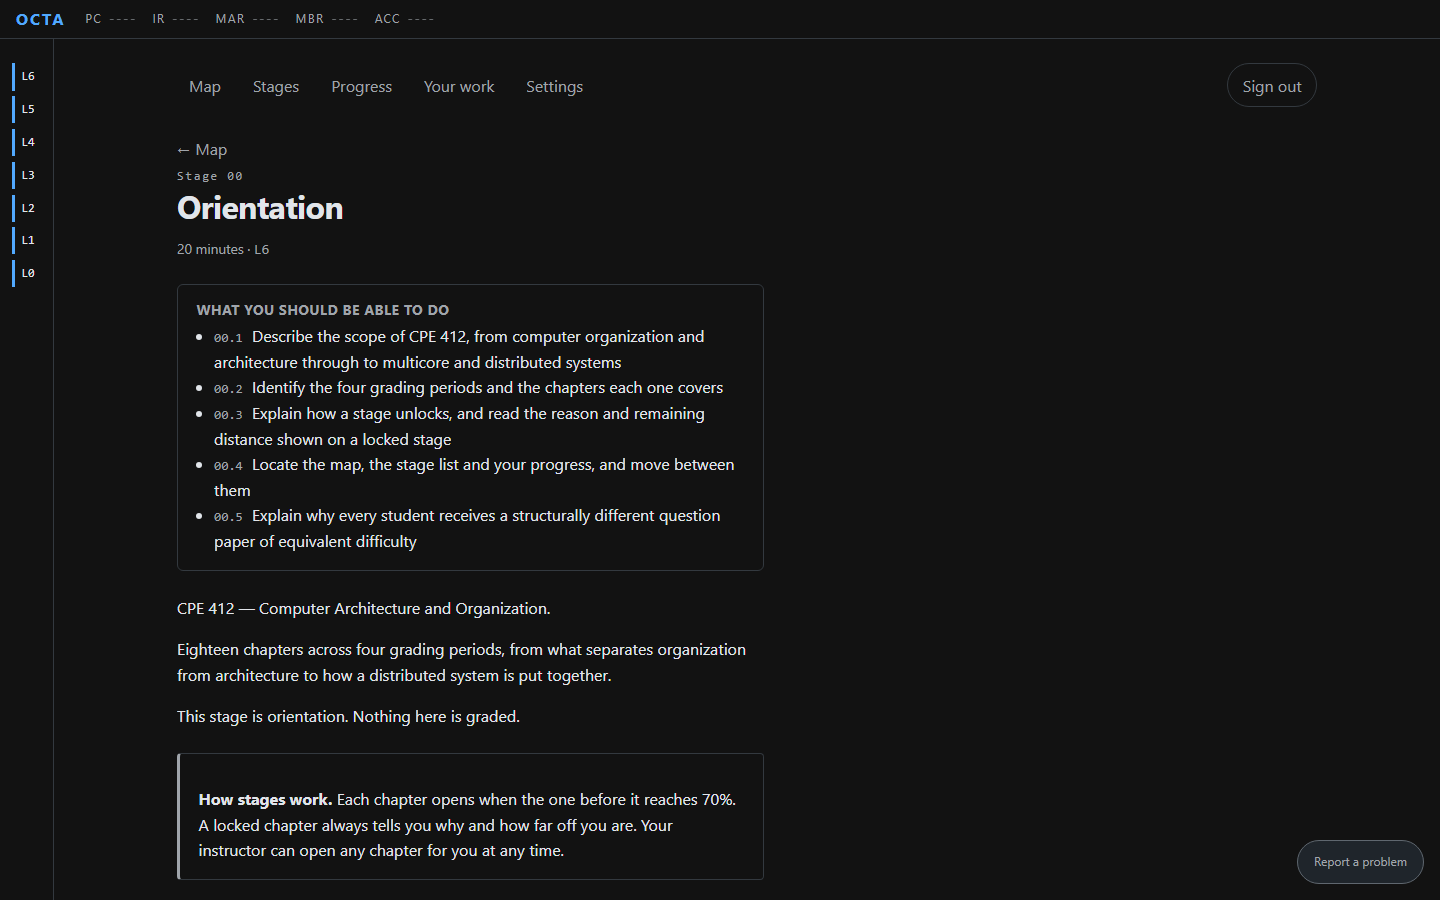
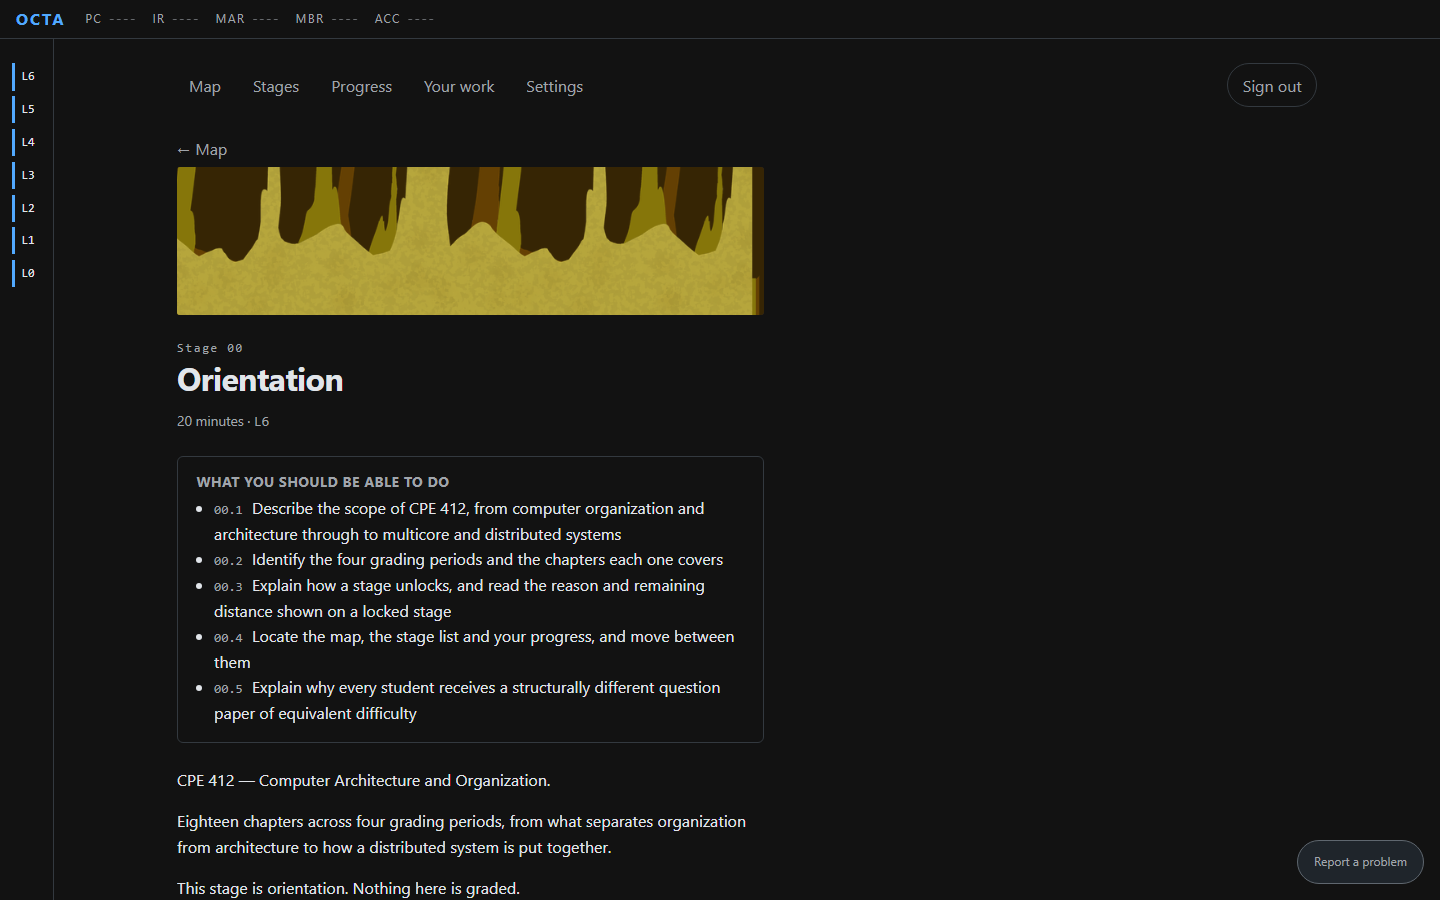
feat(biomes): cave sourced from OpenGameArt, because itch could not prove a licence
All seven biomes now render. This was the one 2 could not source.

Its instruction was "Find a different pack. Not Admurin's" -- that pack has the
same art on DeviantArt under CC 3.0 while itch states different terms, and the
author declined to reconcile them when asked directly.

THE OBVIOUS REPLACEMENT FAILED IDENTICALLY. ansimuz's Warped Caves is a good
pack by an author already vendored here, but its page carries NO LICENCE
STATEMENT FROM THE AUTHOR AT ALL. The CC-BY-3.0 that turns up in a search sits
in a USER COMMENT, by someone who is not the author, in a seven-year-old thread.
Same shape as the pack 2 rejected, so it was rejected too -- and finding that
took reading the comment thread rather than trusting the search result.

OPENGAMEART RECORDS LICENCE AS STRUCTURED METADATA ON THE WORK. That is the
difference that matters: it can be read, cited and re-verified later without
interpreting a conversation. Seamless Parallax Cave Background by
JonathanPalmerGD, from an original by PWL, is CC0 CONFIRMED TWICE -- the entry's
License(s) field, and the pack's own bundled readme.

Prefer OpenGameArt for anything licence-critical. itch.io is better at finding
art and worse at proving you may use it.

A CC-BY-SA 4.0 candidate with arguably better art was rejected on LICENCE rather
than looks: ShareAlike adds a copyleft obligation chain, CC0 adds none, and for
a thesis deliverable the safer licence wins a close call.
[…]

Changed region(s): [[0.125, 0.1867, 0.5312, 0.8089], [0.125, 0.84, 0.5312, 0.9956]]

diff --git a/apps/web/src/biomes/packs/cave.ts b/apps/web/src/biomes/packs/cave.ts
@@ -1,43 +1,70 @@
 import type { BiomeManifest } from "../registry";
 
 /**
- * Cave — underground, layered rock.
+ * Cave — vendored 2 September 2026, and **NOT from itch.io**.
  *
- * **NO PACK SELECTED. One candidate was checked and REJECTED.**
+ * This is the biome `BIOME-AND-LOADING-SPEC.md` §2 could not source. Its
+ * instruction was explicit: *"Find a different pack. Not Admurin's"*, because
+ * Admurin's cave pack has the same art on DeviantArt under CC 3.0 while itch
+ * states different terms, and the author declined to reconcile them when asked
+ * directly.
  *
- * **Do not use Admurin's "Parallax Backgrounds: Caves"**
- * (https://admurin.itch.io/parallax-backgrounds-caves), which is the pack most
- * searches surface first.
+ * **The obvious replacement failed the same test.** ansimuz's *Warped Caves* is
+ * a good pack by an author whose other work is already vendored here — but its
+ * page carries **no licence statement from the author at all**. The CC-BY-3.0
+ * that turns up when you search is in a **user comment**, by someone who is not
+ * the author, in a seven-year-old thread. That is precisely the shape §2
+ * rejected the first time, and it was rejected again.
  *
- * Its comment thread, read directly on 1 September 2026: a user pointed at the
- * **same artwork on DeviantArt**
- * (https://www.deviantart.com/admurin/art/Parallax-Backgrounds-Caves-943909344)
- * *"mentioned as licensed under CC 3.0"*, asked which licence actually governs,
- * and asked whether they could keep using it. The author replied only:
- * *"the license is indicated in the respective section. You don't have to
- * credit me unless you want to. Only thing that cannot be done is sell the
- * asset."*
+ * **Sourced from OpenGameArt instead, and that is the point.** OGA records the
+ * licence as *structured metadata on the work*, not as prose in a description
+ * or a claim in a comment thread — so it can be read, cited, and re-verified by
+ * anyone later. Two independent confirmations here:
  *
- * That restates the itch terms without addressing the CC 3.0 upload of the same
- * work. **Asked directly, never reconciled.** Two sources, two licences, and an
- * author who declined to resolve it is not a licence this project can rely on —
- * `GAME-DESIGN.md` §9's rigour before vendoring anything applies, and
- * `BIOME-AND-LOADING-SPEC.md` §2 keeps this row as the worked example of why a
- * tag listing is not a licence.
+ *   1. The OGA entry's `License(s)` field: **CC0**.
+ *   2. The pack's own bundled `License and Readme.txt`: *"License: CC0 - Use it
+ *      however you want."*
  *
- * TO COMPLETE: find a DIFFERENT cave pack. Browse
- * https://itch.io/game-assets/new-and-popular/free/tag-parallax and search
- * "cave", then open the candidate's own page and read its actual terms — the
- * same way arctic, jungle and ocean were checked. Do not accept a collection's
- * word for it.
+ * *Seamless Parallax Cave Background* by **JonathanPalmerGD**, itself a
+ * parallaxed derivative of *Seamless cave background* by **PWL** — the readme
+ * names that provenance and it is preserved in `public/biomes/cave/LICENSE.txt`.
  *
- * Until then this renders nothing, which is correct: better an absent biome
- * than one shipped on an unresolved licence.
+ * **Downscaled 800px → 400px**, which CC0 expressly permits ("use it however
+ * you want"). The band draws at ~148px, so 800 was five times oversized; the
+ * front layer alone was 325 KB. **377 KB → 156 KB, 59% smaller**, with 400px
+ * still leaving headroom for a 2× display.
+ *
+ * `smooth: true` because this is PAINTED art. Strip packs pixelate by default,
+ * which is right for the pixel-art packs and wrong here.
  */
 const manifest: BiomeManifest = {
   name: "cave",
-  layers: [],
-  credit: null,
+  kind: "strip",
+  smooth: true,
+  layers: [
+    /*
+     * Back to front, and the alpha confirms the intended stack rather than
+     * assuming it: back is 100% opaque (the rock wall), then three overlays at
+     * 40% / 44% / 59% coverage. That check is not optional — arctic's pack had
+     * a second fully-opaque layer hiding at the end of the sequence, which
+     * silently covered the whole scene until the alpha was measured.
+     */
+    { src: "/biomes/cave/back.png", depth: 0, scale: 2.2, align: "bottom" },
+    { src: "/biomes/cave/far.png", depth: 0.4, scale: 2.2, align: "bottom" },
+    { src: "/biomes/cave/mid.png", depth: 0.7, scale: 2.2, align: "bottom" },
+    { src: "/biomes/cave/front.png", depth: 1, scale: 2.2, align: "bottom" },
+  ],
+  credit: {
+    pack: "Seamless Parallax Cave Background",
+    author: "JonathanPalmerGD, from an original by PWL",
+    url: "https://opengameart.org/content/seamless-parallax-cave-background",
+    license:
+      'CC0 — confirmed twice: the OpenGameArt entry\'s License(s) field, and the pack\'s own ' +
+      'bundled readme, verbatim "License: CC0 - Use it however you want."',
+    // None. CC0, and the readme's "credit me if you like" is explicitly
+    // optional. CREDITS.md credits both authors regardless, per its own rule.
+    obligations: [],
+  },
 };
 
 export default manifest;

diff --git a/design/specs/biomes.spec.ts b/design/specs/biomes.spec.ts
@@ -36,7 +36,7 @@ const JWT_SECRET =
   process.env.SUPABASE_JWT_SECRET ?? "test-secret-at-least-32-characters-long-000000";
 
 /** Vendored art. All three compose Kenney Background Elements (CC0). */
-const ART = ["neutral", "desert", "jungle", "arctic", "ocean"] as const;
+const ART = ["neutral", "desert", "jungle", "arctic", "ocean", "cave"] as const;
 /** Allowed to draw from tokens — the one named exception. */
 const PROCEDURAL = ["volcanic"] as const;
 /**
@@ -46,7 +46,17 @@ const PROCEDURAL = ["volcanic"] as const;
  * session (itch.io), and `cave` has no approved source at all — the pack §2
  * named is marked do-not-use over an unresolved licence conflict.
  */
-const NOT_VENDORED = ["cave"] as const;
+/**
+ * Nothing is un-vendored any more — all six art biomes are in, and volcanic is
+ * procedural by design.
+ *
+ * The list is KEPT, empty, rather than deleted along with the test below. §2's
+ * rule that an un-sourced biome must render NOTHING rather than a gradient
+ * stand-in is the reason five of them were visibly outstanding instead of
+ * looking finished, and the next biome added should inherit that guarantee
+ * rather than rediscover it.
+ */
+const NOT_VENDORED: readonly string[] = [];
 
 function studentToken(): string {
   const b64 = (o: unknown) => Buffer.from(JSON.stringify(o)).toString("base64url");

diff --git a/apps/web/src/styles.css b/apps/web/src/styles.css
@@ -1389,7 +1389,11 @@ button {
  * values, and only the parallax offset still comes from the renderer.
  */
 .biome-strip .biome-layer {
-  background-size: auto 100%;
+  /* Height-fit by default, but scale is still honoured: a SQUARE seamless
+     source (cave is 800x800) dropped into a 4:1 band tiles four times and loses
+     every detail. Scaling past 1 zooms in so fewer, larger repeats show, which
+     is the difference between a cave wall and abstract blobs. */
+  background-size: auto calc(var(--biome-scale, 1) * 100%);
   opacity: 1;
   /* Pixel art. Smoothing a 384x216 strip up to the band height turns crisp
      edges to mush, which is the one thing these packs are chosen for. */
@@ -2250,3 +2254,12 @@ button {
 
 /* The Finals' scope note. Quieter than the name, louder than nothing. */
 .act-head-note { color: var(--ink-faint); font-weight: 400; font-size: 0.78rem; }
+
+/*
+ * Painted strip packs opt out of pixelation.
+ *
+ * `.biome-strip` pixelates by default because the pixel-art packs are chosen
+ * for crisp edges, and smoothing one up to the band destroys them. `cave` is
+ * painted art, where the same rule produces the jagged mess it exists to avoid.
+ */
+.biome-smooth .biome-layer { image-rendering: auto; }

diff --git a/apps/web/src/biomes/registry.ts b/apps/web/src/biomes/registry.ts
@@ -68,6 +68,15 @@ export interface BiomeManifest {
    * looks wrong, but it does not lose information.
    */
   readonly kind?: "elements" | "strip";
+  /**
+   * Painted art rather than pixel art.
+   *
+   * Strip packs default to `image-rendering: pixelated`, because the pixel-art
+   * packs are chosen precisely for their crisp edges and smoothing one up to the
+   * band turns it to mush. `cave` is painted, not pixel art, and pixelating it
+   * produces exactly the jagged mess the flag exists to avoid elsewhere.
+   */
+  readonly smooth?: boolean;
   /** Back-to-front. Empty means this biome is procedural (see `volcanic`). */
   readonly layers: readonly BiomeLayer[];
   /**

diff --git a/apps/web/src/biomes/BiomeScene.tsx b/apps/web/src/biomes/BiomeScene.tsx
@@ -76,7 +76,7 @@ export function BiomeScene({ name }: Props): JSX.Element | null {
 
   return (
     <div
-      className={`biome biome-arrive${manifest.kind === "strip" ? " biome-strip" : ""}`}
+      className={`biome biome-arrive${manifest.kind === "strip" ? " biome-strip" : ""}${manifest.smooth ? " biome-smooth" : ""}`}
       data-biome-render={hasArt ? "art" : "procedural"}
       aria-hidden="true"
     >

diff --git a/docs/PROGRESS.md b/docs/PROGRESS.md
@@ -36,11 +36,10 @@ seeded `content_report` rows missing `item_id` / `resolved_variant`), 0 failures
 
 **The three things blocking most:**
 
-1. **Six of seven biomes render.** `neutral`, `desert`, `jungle` (Kenney CC0),
-   `arctic` (Admurin) and `ocean` (ansimuz) all draw real art; `volcanic` is
-   procedural. **Only `cave` is blank, and it has no approved source** — the pack
-   §2 named is do-not-use over an unresolved licence conflict, so finding a
-   replacement is its own piece of work. 168 KB of art in total.
+1. ~~Biomes~~ **DONE. All seven render** — `neutral`, `desert`, `jungle`
+   (Kenney CC0), `arctic` (Admurin), `ocean` (ansimuz), `cave` (OpenGameArt,
+   CC0), and `volcanic` procedurally. 324 KB of art, every licence recorded in
+   the pack directory and in `CREDITS.md`.
 2. **`INV-32` and `INV-33` do not exist.** `DELIVERY.md` §3.1 lists them as
    alpha exit criteria and the invariant set stops at **INV-31**. An exit gate
    that cites missing checks can be neither passed nor failed.
@@ -1626,6 +1625,45 @@ pixel art to mush, which is the one thing these packs are chosen for.
 
 R2 moves to **20 of 21**. The remaining item is `cave`, which is a sourcing
 problem rather than a build one.
+
+### F-38 · Cave sourced from OpenGameArt, because itch could not prove a licence
+
+The biome §2 could not source. Its instruction was *"Find a different pack. Not
+Admurin's"* — that pack has the same art on DeviantArt under CC 3.0 while itch
+states different terms, and the author declined to reconcile them.
+
+**The obvious replacement failed identically.** ansimuz's *Warped Caves* is a
+good pack by an author already vendored here, but its page has **no licence
+statement from the author at all**. The CC-BY-3.0 that turns up in a search sits
+in a **user comment**, by someone who is not the author, in a seven-year-old
+thread. Same shape as the pack §2 rejected, so it was rejected too — and finding
+that took reading the comment thread rather than trusting the search result.
+
+**OpenGameArt records licence as structured metadata on the work.** That is the
+difference that matters: it can be read, cited and re-verified later without
+interpreting a conversation. *Seamless Parallax Cave Background* by
+JonathanPalmerGD (from an original by PWL) is **CC0, confirmed twice** — the
+entry's `License(s)` field and the pack's own bundled readme.
+
+**Prefer OpenGameArt for anything licence-critical.** itch.io is better at
+finding art and worse at proving you may use it.
+
+A **CC-BY-SA 4.0** candidate with arguably better art was rejected on licence
+rather than looks: ShareAlike adds a copyleft obligation chain, CC0 adds none,
+and for a thesis deliverable the safer licence wins a close call.
+
+**Downscaled 800 → 400px, 377 KB → 156 KB (59% smaller)**, which CC0 expressly
+permits. The band draws at ~148px, so the source was five times oversized.
+
+**Two rendering rules came out of it.** A square seamless source in a 4:1 band
+tiles four times at `auto 100%` and loses every detail — it read as abstract
+blobs until `scale` was raised to 2.2, so `.biome-strip` now honours
+`--biome-scale` instead of hard-coding the height. And `smooth: true` was added
+because this pack is **painted, not pixel art**: the pixelation that keeps the
+pixel-art packs crisp is exactly what ruins this one.
+
+**R2's biome work is complete.** The only remaining unticked box is the
+superseded procedural-first item, which will never be ticked by design.
 
 ## Performance and QA numbers — measured, not assumed
 

diff --git a/docs/redesign/BIOME-AND-LOADING-SPEC.md b/docs/redesign/BIOME-AND-LOADING-SPEC.md
@@ -90,7 +90,7 @@ from it in two places — both recorded rather than quietly substituted.
 | `volcanic` | procedural | as specified — no cleanly-licensed pack found |
 | `arctic` | **Admurin Snowy Mountains** — not CC0, terms verbatim in the pack dir | vendored 2 Sep 2026 via a driven browser session, exactly as §1b predicted would be needed |
 | `ocean` | **ansimuz Underwater Fantasy** — permissive, terms verbatim in the pack dir | same |
-| `cave` | **not vendored** | still no approved source. Admurin's pack remains do-not-use over the unresolved CC-3.0-versus-itch conflict |
+| `cave` | **JonathanPalmerGD / PWL, CC0** — from **OpenGameArt, not itch.io** | see below: the obvious itch replacement failed the same test Admurin's did |
 
 **Neither substitution lowered the standard.** CC0 is at least as permissive as
 what either replaced pack offered, and the pack's own `License.txt` travels with
@@ -99,6 +99,41 @@ the art in every biome directory.
 **These are elements, not pre-cut strips**, so each biome is composed in its own
 manifest — which is exactly what the table above means by calling Kenney the
 "base layer for several biomes". Three biomes cost **23 KB of art in total**.
+
+### Cave: why it came from OpenGameArt, and what that fixes
+
+§2's instruction was *"Find a different pack. Not Admurin's"* — because the same
+art sits on DeviantArt under CC 3.0 while itch states different terms, and the
+author declined to reconcile them when asked directly.
+
+**The obvious replacement failed identically.** ansimuz's *Warped Caves* is a
+good pack by an author already vendored here, but its page carries **no licence
+statement from the author at all**. The CC-BY-3.0 that surfaces in a search is
+in a **user comment**, by someone who is not the author, in a seven-year-old
+thread. Same shape, same rejection.
+
+**OpenGameArt records the licence as structured metadata on the work**, not as
+prose in a description or a claim in a comment. That is the whole difference: it
+can be read, cited and re-verified by anyone, later, without interpreting a
+conversation. Two independent confirmations for this pack — the entry's
+`License(s)` field, and the pack's own bundled readme.
+
+**A CC-BY-SA candidate was rejected on licence, not looks.** *2d Backgrounds for
+platformer game. Dungeons and Cave* is arguably better art, but ShareAlike adds
+a copyleft obligation chain; CC0 adds none, and for a thesis deliverable the
+safer licence wins a close call.
+
+**Prefer OpenGameArt for anything licence-critical.** itch.io is better for
+finding art and worse for proving you may use it.
+
+**Downscaled 800px → 400px** (377 KB → 156 KB, 59% smaller), which CC0 expressly
+permits. The band draws at ~148px, so 800 was five times oversized.
+
+**A square source in a 4:1 band needs `scale` above 1.** At `auto 100%` an
+800×800 seamless tile repeats four times across the band and every detail
+disappears — it read as abstract blobs. At 2.2 it shows fewer, larger repeats
+and reads as stalactites over a floor. `.biome-strip` therefore honours
+`--biome-scale` rather than hard-coding `100%`.
 
 ### A second composition note: measure the alpha, not the filename
 

diff --git a/docs/redesign/phases/R2-per-student-seeded-cosmetics.md b/docs/redesign/phases/R2-per-student-seeded-cosmetics.md
@@ -8,7 +8,7 @@
 > requires the box to be ticked **in the same commit as the work**, and this
 > backfill is that rule applied backwards.
 >
-> **R2 is 20 of 21.** **Six of seven biomes render** — `neutral`, `desert`, `jungle` (Kenney CC0), `arctic` (Admurin), `ocean` (ansimuz), and `volcanic` procedurally. All seven are captured in `design/biomes/`. The only open item is `cave`, which has **no approved source**: the pack §2 named is do-not-use over an unresolved licence conflict. The one remaining unticked box is the superseded procedural-first item. The three left open are real gaps, not bookkeeping, and are named below.
+> **R2 is 20 of 21, and that is finished.** **All seven biomes render** — `neutral`, `desert`, `jungle` (Kenney CC0), `arctic` (Admurin), `ocean` (ansimuz), `cave` (OpenGameArt CC0), and `volcanic` procedurally. All seven are captured in `design/biomes/`. The one unticked box is the **superseded** procedural-first item, which will never be ticked: §2 was revised so real art is the default, and ticking it would record agreement with an overruled plan.
 >
 > Ticked means *evidence exists in this repository*, not *remembered as done*.
 > The evidence for each group is named below.

diff --git a/design/biomes/README.md b/design/biomes/README.md
@@ -11,11 +11,11 @@ to hand out.
 | `volcanic.png` | **Renders procedurally**, from tokens. The one named exception in `BIOME-AND-LOADING-SPEC.md` §2, where no cleanly-licensed pack exists yet |
 | `arctic.png` | **Renders.** Admurin's Snowy Mountains — not CC0, terms verbatim in the pack directory |
 | `ocean.png` | **Renders.** ansimuz's Underwater Fantasy — permissive, terms verbatim in the pack directory |
-| `cave.png` | **Draws nothing.** No approved source: the pack §2 named is do-not-use over an unresolved licence conflict |
+| `cave.png` | **Renders.** JonathanPalmerGD / PWL via OpenGameArt — CC0, confirmed twice. Sourced there, not itch, because itch could not prove a licence |
 
 ## The five blanks are the point
 
-The one blank is `cave`, and that is the design working rather than failing.
+**Nothing is blank any more.** All seven render, and the rule below is why five of them were visibly outstanding rather than looking finished while they waited.
 
 §2 was revised to forbid a gradient stand-in for an un-sourced biome, because
 **a gradient looks finished**. A tinted rectangle where the art should be is

diff --git a/apps/web/public/CREDITS.md b/apps/web/public/CREDITS.md
@@ -36,6 +36,13 @@ lazy-loaded one at a time.
   allowed, credit appreciated but not required. No NFT clause and no AI clause —
   the most permissive of the non-Kenney packs.
 
+- **Seamless Parallax Cave Background** — JonathanPalmerGD, from an original by
+  PWL, https://opengameart.org/content/seamless-parallax-cave-background —
+  **CC0**. Used for the `cave` biome. Confirmed twice: OpenGameArt's structured
+  `License(s)` field, and the pack's own bundled readme ("License: CC0 - Use it
+  however you want"). Downscaled 800px → 400px, which CC0 expressly permits.
+  Credit is optional and given anyway, to both authors.
+
 ### Sourced and licence-verified, art not yet vendored
 
 Each of these was opened and its terms read on its own page, 1 September 2026.
